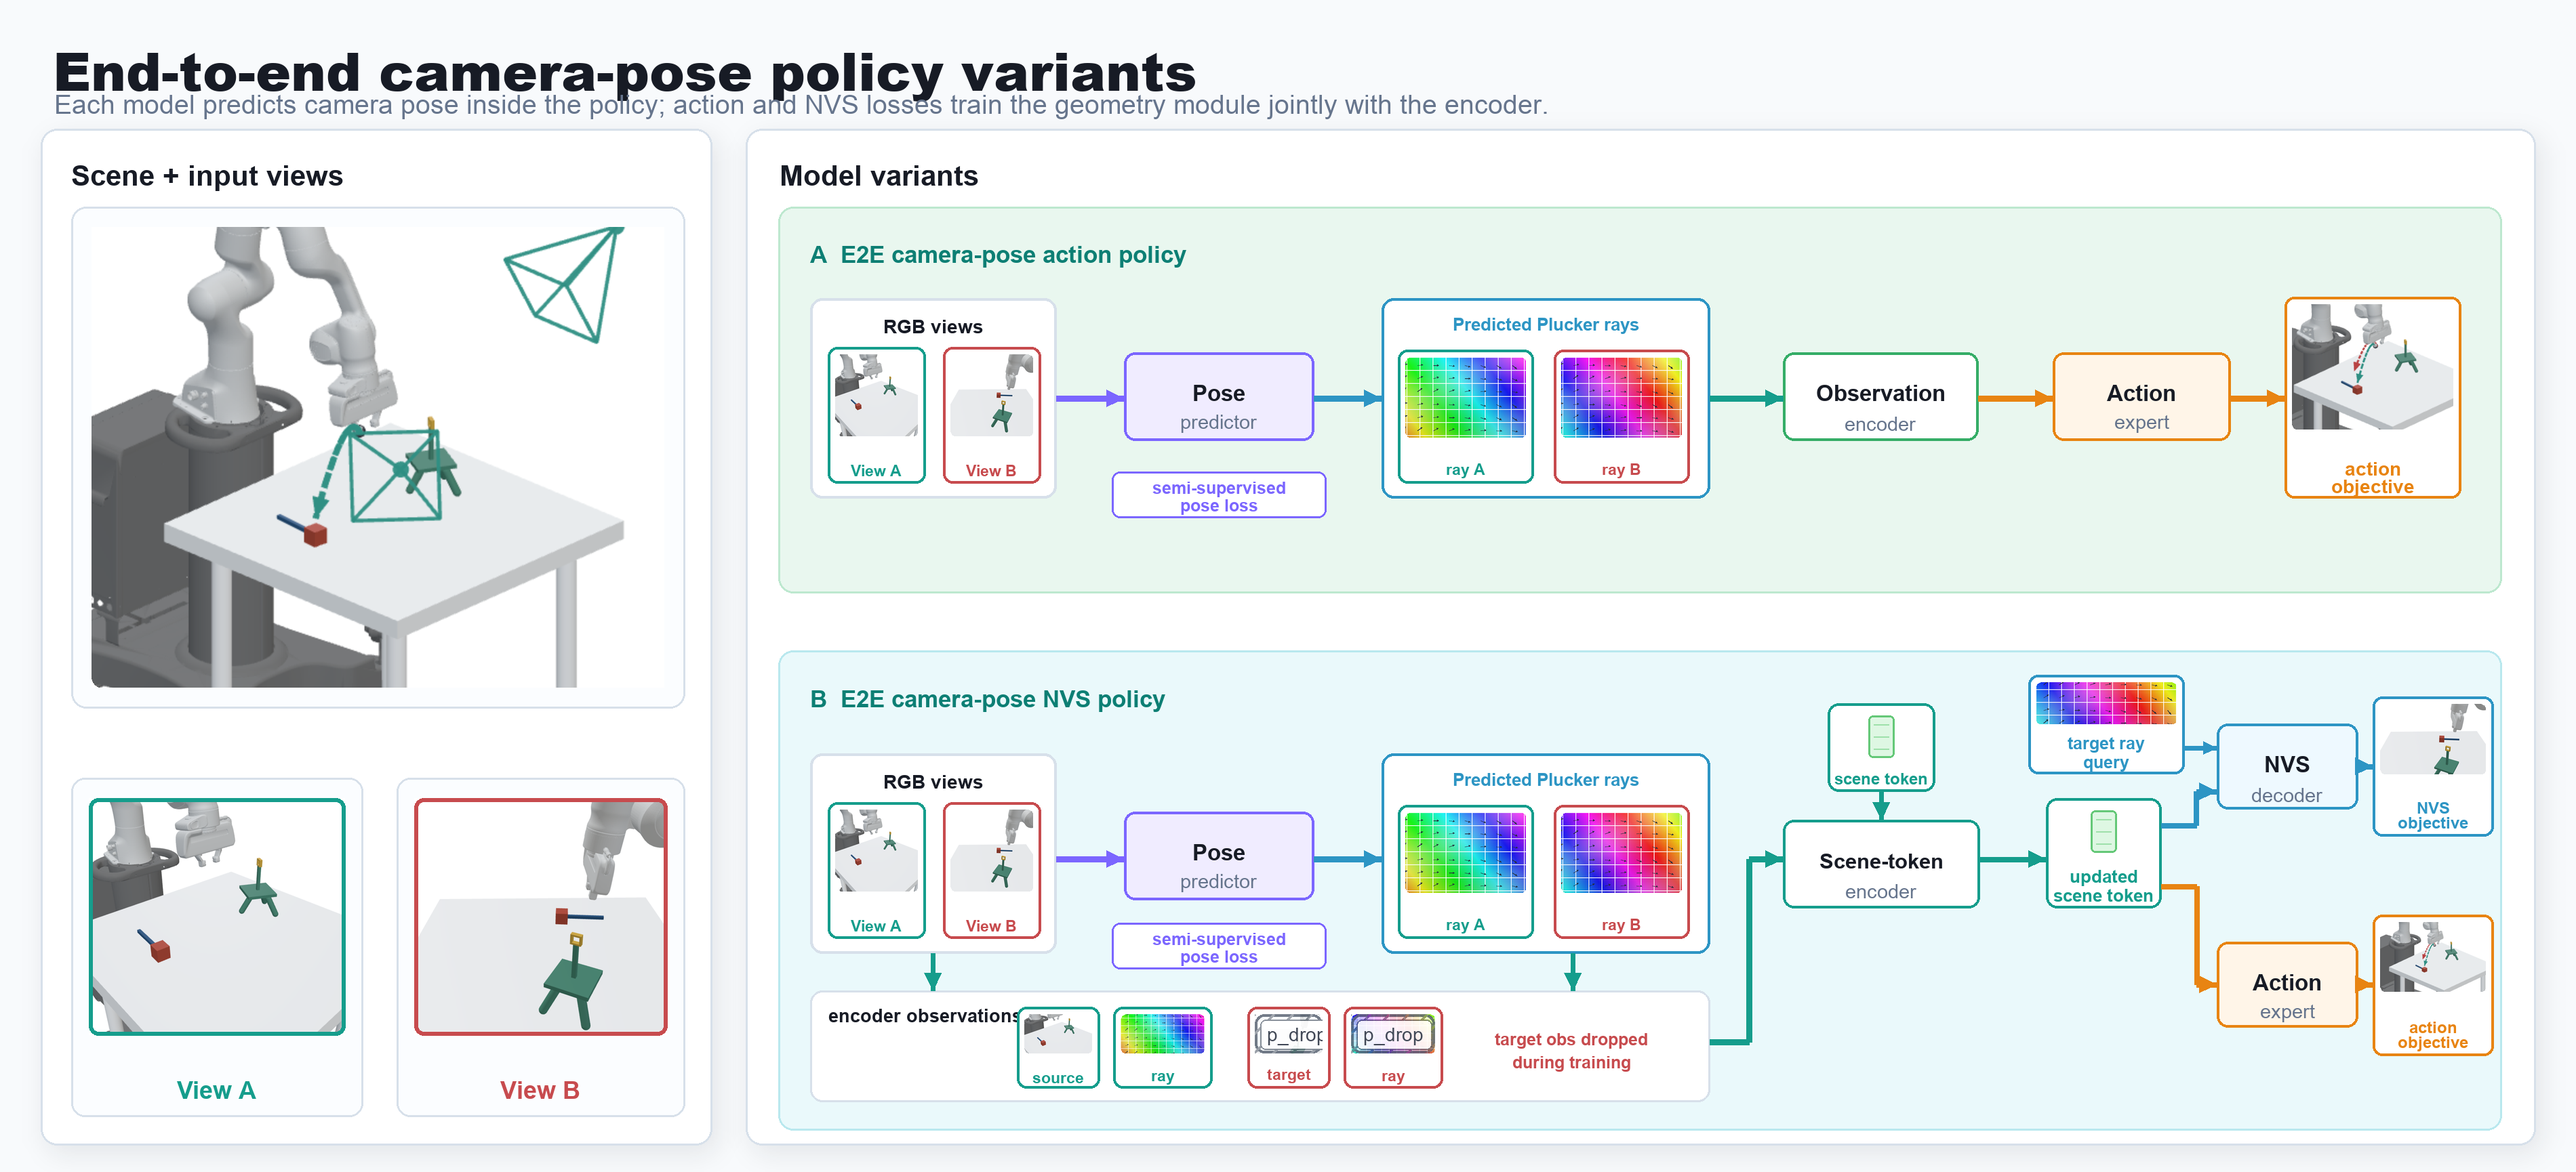
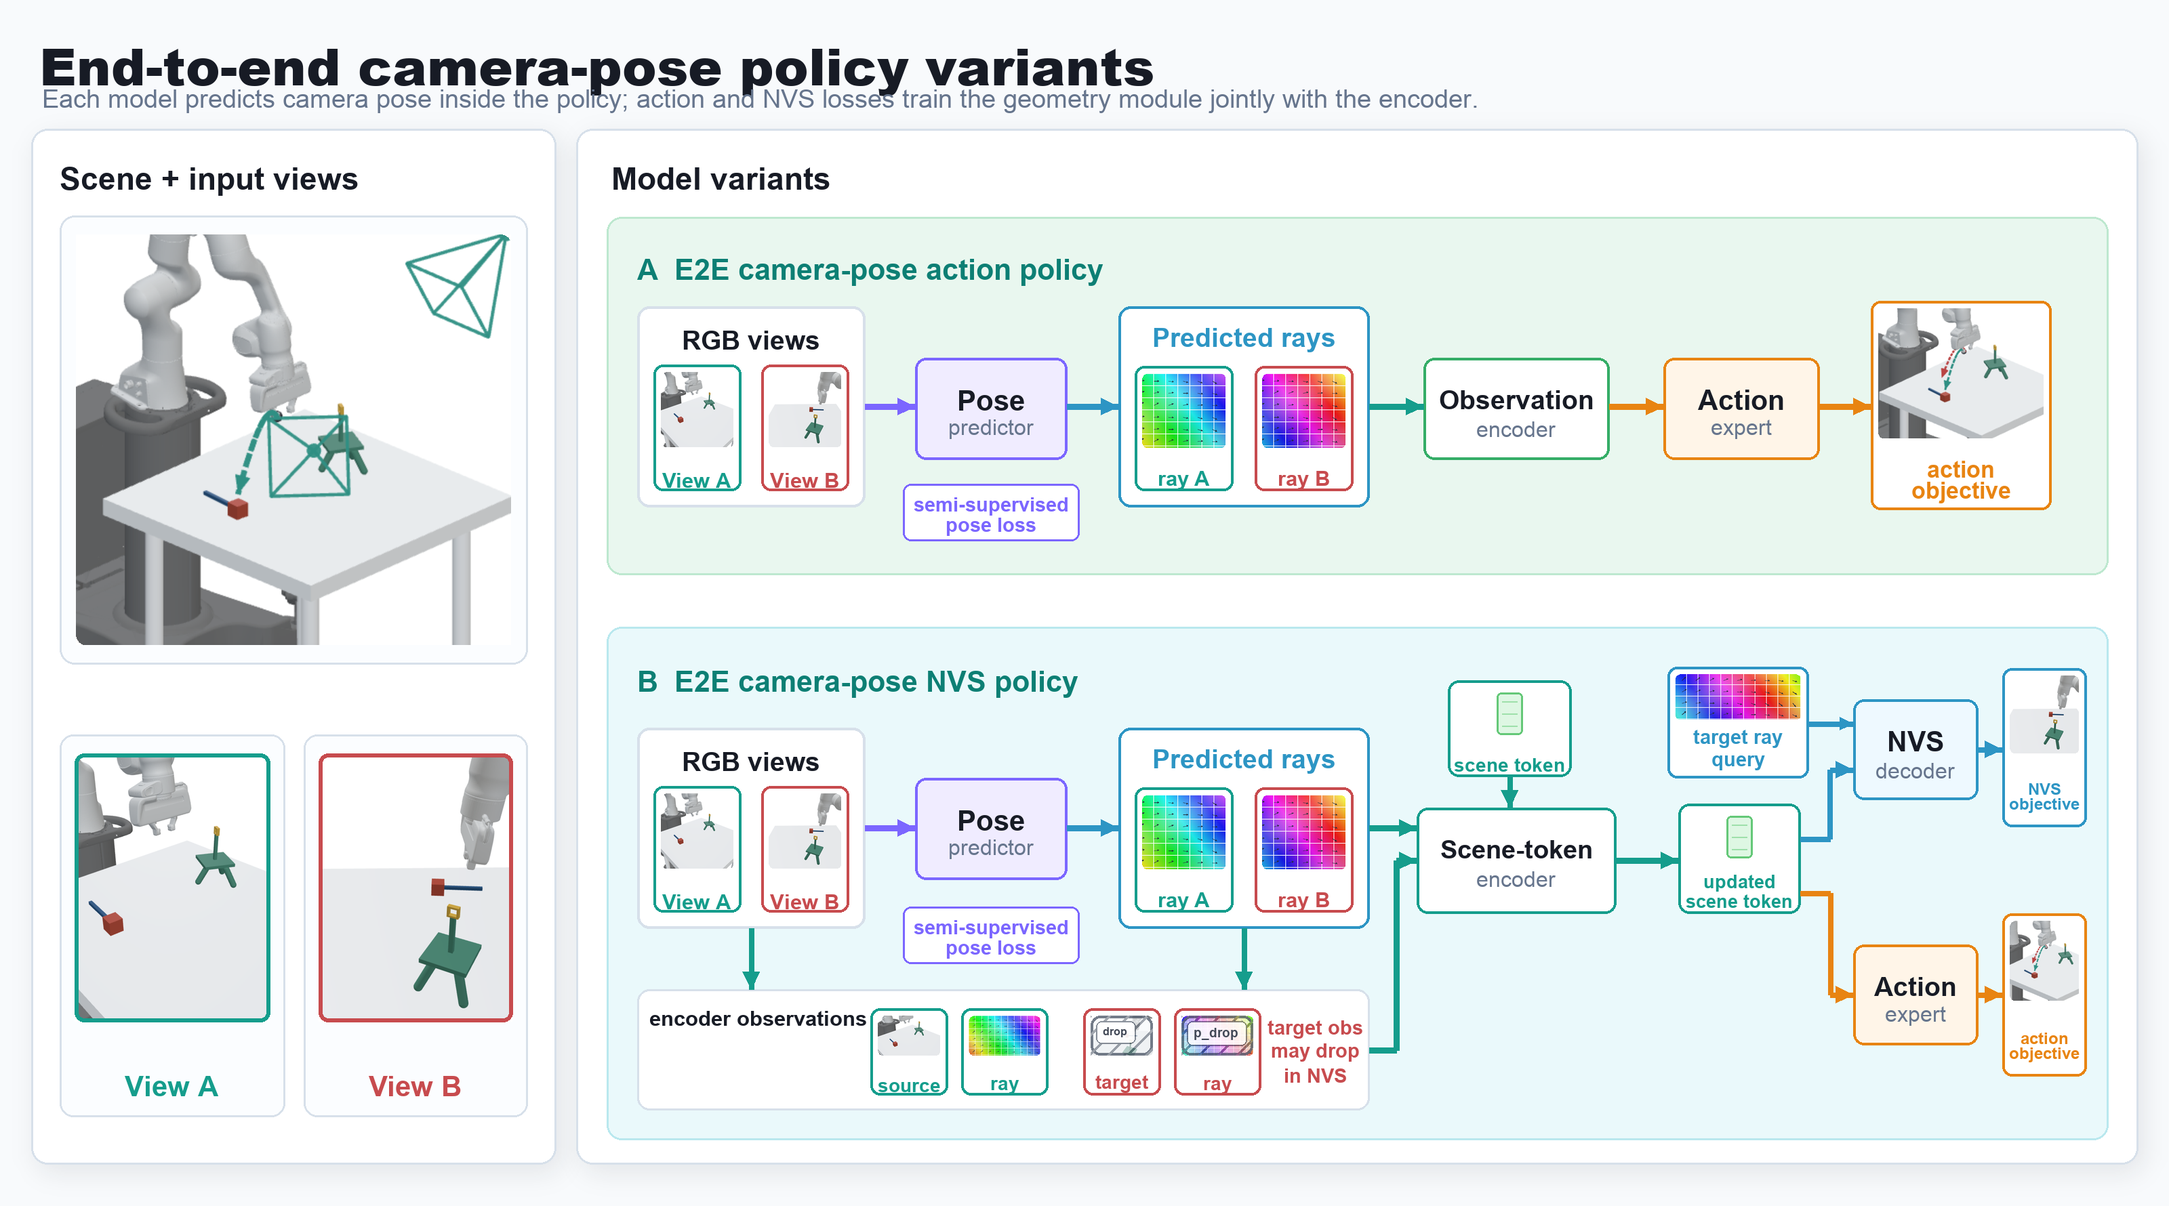
Enlarge pipeline figure text

Changed region(s): [[0.0, 0.0312, 0.9688, 0.9676], [0.2812, 0.4682, 0.3125, 0.4994]]

diff --git a/figures/scripts/render_pipeline_figure.py b/figures/scripts/render_pipeline_figure.py
@@ -12,7 +12,7 @@ ROOT = Path(__file__).resolve().parents[1]
 OUT = ROOT / "pipeline.png"
 ASSETS = ROOT / "pipeline_assets"
 
-W, H = 3800, 1730
+W, H = 3200, 1780
 FONT = Path("/System/Library/Fonts/Supplemental/Arial.ttf")
 BOLD = Path("/System/Library/Fonts/Supplemental/Arial Bold.ttf")
 BLACK = Path("/System/Library/Fonts/Supplemental/Arial Black.ttf")
@@ -22,14 +22,14 @@ def font(size: int, bold: bool = False, black: bool = False) -> ImageFont.FreeTy
     return ImageFont.truetype(str(BLACK if black else (BOLD if bold else FONT)), size)
 
 
-F_TITLE = font(78, black=True)
-F_SUB = font(39)
-F_PANEL = font(42, bold=True)
-F_BAND = font(35, bold=True)
-F_LABEL = font(33, bold=True)
-F_SMALL = font(29)
-F_TINY = font(28)
-F_CHIP = font(25, bold=True)
+F_TITLE = font(76, black=True)
+F_SUB = font(38)
+F_PANEL = font(46, bold=True)
+F_BAND = font(43, bold=True)
+F_LABEL = font(40, bold=True)
+F_SMALL = font(32)
+F_TINY = font(31)
+F_CHIP = font(29, bold=True)
 
 C_TEXT = "#171b25"
 C_MUTED = "#66758d"
@@ -162,10 +162,21 @@ def dropout_overlay(box, label="p_drop"):
     pd.rounded_rectangle((0, 0, w - 1, h - 1), radius=14, fill=(245, 248, 250, 158), outline=(90, 100, 115, 215), width=4)
     for k in range(-h, w + h, 28):
         pd.line((k, h, k + h, 0), fill=(85, 95, 110, 140), width=4)
-    tb = pd.textbbox((0, 0), label, font=F_TINY)
+    label_text = label
+    label_size = min(28, max(17, w // 4))
+    drop_font = font(label_size, bold=True)
+    tb = pd.textbbox((0, 0), label_text, font=drop_font)
+    while tb[2] - tb[0] + 30 > w - 10 and label_size > 16:
+        label_size -= 1
+        drop_font = font(label_size, bold=True)
+        tb = pd.textbbox((0, 0), label_text, font=drop_font)
+    if tb[2] - tb[0] + 30 > w - 10 and label_text == "p_drop":
+        label_text = "drop"
+        drop_font = font(max(16, label_size), bold=True)
+        tb = pd.textbbox((0, 0), label_text, font=drop_font)
     tw, th = tb[2] - tb[0], tb[3] - tb[1]
-    pd.rounded_rectangle((8, 8, tw + 30, th + 26), radius=8, fill=(255, 255, 255, 235), outline=(95, 105, 118, 185), width=2)
-    pd.text((18, 14), label, font=F_TINY, fill=(65, 72, 86, 255))
+    pd.rounded_rectangle((8, 8, min(w - 8, tw + 30), th + 26), radius=8, fill=(255, 255, 255, 235), outline=(95, 105, 118, 185), width=2)
+    pd.text((18, 14), label_text, font=drop_font, fill=(65, 72, 86, 255))
     base = img.crop((x0, y0, x1, y1)).convert("RGBA")
     comp = Image.alpha_composite(base, patch)
     img.paste(comp.convert("RGB"), (x0, y0))
@@ -180,7 +191,7 @@ def labeled_tile(src, box, label, stroke, label_color=None, label_size=26, image
     if overlay_drop:
         dropout_overlay((x0 + pad, y0 + pad, x1 - pad, im_bottom), "p_drop")
     if "\n" in label:
-        text_multiline_fit_center(((x0 + x1) / 2, y1 - 34), label, label_size, (x1 - x0) - 18, fill=label_color or stroke, bold=True)
+        text_multiline_fit_center(((x0 + x1) / 2, y1 - 48), label, label_size, (x1 - x0) - 18, fill=label_color or stroke, bold=True)
     else:
         text_fit_center(((x0 + x1) / 2, y1 - 22), label, label_size, (x1 - x0) - 18, fill=label_color or stroke, bold=True)
 
@@ -257,100 +268,104 @@ def main():
     ray_a = plucker((420, 235), 0.03)
     ray_b = plucker((420, 235), 0.42)
 
-    d.text((78, 48), "End-to-end camera-pose policy variants", font=F_TITLE, fill=C_TEXT)
-    d.text((80, 132), "Each model predicts camera pose inside the policy; action and NVS losses train the geometry module jointly with the encoder.", font=F_SUB, fill=C_MUTED)
+    d.text((58, 42), "End-to-end camera-pose policy variants", font=F_TITLE, fill=C_TEXT)
+    d.text((62, 124), "Each model predicts camera pose inside the policy; action and NVS losses train the geometry module jointly with the encoder.", font=F_SUB, fill=C_MUTED)
 
-    left = (60, 190, 1050, 1690)
-    right = (1100, 190, 3740, 1690)
+    left = (46, 190, 820, 1718)
+    right = (850, 190, 3154, 1718)
     shadowed_panel(left)
     shadowed_panel(right)
-    d.text((105, 235), "Scene + input views", font=F_PANEL, fill=C_TEXT)
-    d.text((1150, 235), "Model variants", font=F_PANEL, fill=C_TEXT)
+    d.text((88, 238), "Scene + input views", font=F_PANEL, fill=C_TEXT)
+    d.text((902, 238), "Model variants", font=F_PANEL, fill=C_TEXT)
 
-    rounded((105, 305, 1010, 1045), r=22, fill="#fbfdff", outline=C_LINE, width=3)
-    paste_cover(scene_crop, (135, 335, 980, 1015), radius=16)
+    rounded((88, 318, 778, 980), r=22, fill="#fbfdff", outline=C_LINE, width=3)
+    paste_cover(scene_crop, (112, 346, 754, 952), radius=16)
     for box, label, col, im in [
-        ((105, 1148, 535, 1648), "View A", C_TEAL, view_a),
-        ((585, 1148, 1010, 1648), "View B", C_RED, view_b),
+        ((88, 1084, 420, 1648), "View A", C_TEAL, view_a),
+        ((448, 1084, 778, 1648), "View B", C_RED, view_b),
     ]:
         rounded(box, r=20, fill="#fbfdff", outline=C_LINE, width=3)
         x0, y0, x1, y1 = box
-        paste_cover(im, (x0 + 26, y0 + 30, x1 - 26, y0 + 380), radius=14, border=col, bw=6)
-        text_fit_center(((x0 + x1) / 2, y1 - 46), label, 36, (x1 - x0) - 38, fill=col, bold=True)
+        paste_cover(im, (x0 + 22, y0 + 28, x1 - 22, y0 + 424), radius=14, border=col, bw=6)
+        text_fit_center(((x0 + x1) / 2, y1 - 54), label, 42, (x1 - x0) - 36, fill=col, bold=True)
 
     def rgb_views_card(box, title="RGB views"):
         x0, y0, x1, y1 = map(int, box)
         rounded((x0, y0, x1, y1), r=18, fill="white", outline=C_LINE, width=4)
-        text_fit_center(((x0 + x1) / 2, y0 + 36), title, 28, x1 - x0 - 28, fill=C_TEXT, bold=True)
-        labeled_tile(view_a, (x0 + 26, y0 + 72, x0 + 170, y1 - 22), "View A", C_TEAL, label_size=23, image_frac=0.66)
-        labeled_tile(view_b, (x0 + 196, y0 + 72, x0 + 340, y1 - 22), "View B", C_RED, label_size=23, image_frac=0.66)
+        text_fit_center(((x0 + x1) / 2, y0 + 42), title, 39, x1 - x0 - 28, fill=C_TEXT, bold=True)
+        tile_w = int((x1 - x0 - 78) / 2)
+        labeled_tile(view_a, (x0 + 24, y0 + 86, x0 + 24 + tile_w, y1 - 24), "View A", C_TEAL, label_size=31, image_frac=0.66)
+        labeled_tile(view_b, (x0 + 54 + tile_w, y0 + 86, x0 + 54 + tile_w * 2, y1 - 24), "View B", C_RED, label_size=31, image_frac=0.66)
 
     def ray_maps_card(box):
         x0, y0, x1, y1 = map(int, box)
         rounded((x0, y0, x1, y1), r=18, fill="white", outline=C_BLUE, width=4)
-        text_fit_center(((x0 + x1) / 2, y0 + 36), "Predicted Plucker rays", 26, x1 - x0 - 28, fill=C_BLUE, bold=True)
-        labeled_tile(ray_a, (x0 + 24, y0 + 76, x0 + 224, y1 - 22), "ray A", C_TEAL, label_size=23, image_frac=0.66)
-        labeled_tile(ray_b, (x0 + 254, y0 + 76, x0 + 454, y1 - 22), "ray B", C_RED, label_size=23, image_frac=0.66)
+        text_fit_center(((x0 + x1) / 2, y0 + 42), "Predicted rays", 39, x1 - x0 - 28, fill=C_BLUE, bold=True)
+        tile_w = int((x1 - x0 - 80) / 2)
+        labeled_tile(ray_a, (x0 + 24, y0 + 88, x0 + 24 + tile_w, y1 - 24), "ray A", C_TEAL, label_size=31, image_frac=0.66)
+        labeled_tile(ray_b, (x0 + 56 + tile_w, y0 + 88, x0 + 56 + tile_w * 2, y1 - 24), "ray B", C_RED, label_size=31, image_frac=0.66)
 
     def pose_block(box, aux_y=None):
-        node(box, "Pose", "predictor", stroke=C_PURPLE, fill=C_PURPLE_FILL, title_color=C_TEXT, title_size=33)
+        node(box, "Pose", "predictor", stroke=C_PURPLE, fill=C_PURPLE_FILL, title_color=C_TEXT, title_size=42)
         if aux_y is not None:
             x0, _, x1, _ = box
-            rounded((x0 - 18, aux_y, x1 + 18, aux_y + 68), r=12, fill="white", outline=C_PURPLE, width=3)
-            text_multiline_fit_center(((x0 + x1) / 2, aux_y + 35), "semi-supervised\npose loss", 25, (x1 - x0) + 10, fill=C_PURPLE, bold=True)
+            rounded((x0 - 18, aux_y, x1 + 18, aux_y + 84), r=12, fill="white", outline=C_PURPLE, width=3)
+            text_multiline_fit_center(((x0 + x1) / 2, aux_y + 43), "semi-supervised\npose loss", 31, (x1 - x0) + 10, fill=C_PURPLE, bold=True)
 
-    band_a = (1148, 305, 3690, 875)
+    band_a = (895, 320, 3110, 848)
     rounded(band_a, r=22, fill=C_GREEN_FILL, outline=C_GREEN_STROKE, width=3)
-    d.text((1195, 356), "A  E2E camera-pose action policy", font=F_BAND, fill=C_TEAL_DARK)
-    rgb_views_card((1195, 440, 1558, 735))
-    pose_block((1658, 520, 1938, 650), aux_y=696)
-    ray_maps_card((2038, 440, 2522, 735))
-    node((2630, 520, 2918, 650), "Observation", "encoder", stroke="#35ad67", fill="white", title_size=33)
-    node((3028, 520, 3290, 650), "Action", "expert", stroke=C_ORANGE, fill=C_ORANGE_FILL, title_size=33)
-    labeled_tile(action_crop, (3370, 438, 3630, 735), "action\nobjective", C_ORANGE, label_size=28, image_frac=0.66)
-    arrow([(1558, 588), (1658, 588)], color=C_PURPLE, width=9)
-    arrow([(1938, 588), (2038, 588)], color=C_BLUE, width=9)
-    arrow([(2522, 588), (2630, 588)], color=C_TEAL, width=9)
-    arrow([(2918, 588), (3028, 588)], color=C_ORANGE, width=9)
-    arrow([(3290, 588), (3370, 588)], color=C_ORANGE, width=9)
+    d.text((940, 374), "A  E2E camera-pose action policy", font=F_BAND, fill=C_TEAL_DARK)
+    rgb_views_card((940, 452, 1276, 748))
+    pose_block((1350, 528, 1574, 678), aux_y=714)
+    ray_maps_card((1650, 452, 2020, 748))
+    node((2100, 528, 2374, 678), "Observation", "encoder", stroke="#35ad67", fill="white", title_size=39)
+    node((2454, 528, 2684, 678), "Action", "expert", stroke=C_ORANGE, fill=C_ORANGE_FILL, title_size=41)
+    labeled_tile(action_crop, (2760, 444, 3026, 752), "action\nobjective", C_ORANGE, label_size=34, image_frac=0.66)
+    arrow([(1276, 600), (1350, 600)], color=C_PURPLE, width=9)
+    arrow([(1574, 600), (1650, 600)], color=C_BLUE, width=9)
+    arrow([(2020, 600), (2100, 600)], color=C_TEAL, width=9)
+    arrow([(2374, 600), (2454, 600)], color=C_ORANGE, width=9)
+    arrow([(2684, 600), (2760, 600)], color=C_ORANGE, width=9)
 
-    band_b = (1148, 960, 3690, 1668)
+    band_b = (895, 925, 3110, 1682)
     rounded(band_b, r=22, fill=C_CYAN_FILL, outline=C_CYAN_STROKE, width=3)
-    d.text((1195, 1012), "B  E2E camera-pose NVS policy", font=F_BAND, fill=C_TEAL_DARK)
-    rgb_views_card((1195, 1112, 1558, 1407))
-    pose_block((1658, 1198, 1938, 1328), aux_y=1362)
-    ray_maps_card((2038, 1112, 2522, 1407))
-    arrow([(1558, 1268), (1658, 1268)], color=C_PURPLE, width=9)
-    arrow([(1938, 1268), (2038, 1268)], color=C_BLUE, width=9)
+    d.text((940, 982), "B  E2E camera-pose NVS policy", font=F_BAND, fill=C_TEAL_DARK)
+    rgb_views_card((940, 1074, 1276, 1370))
+    pose_block((1350, 1148, 1574, 1298), aux_y=1338)
+    ray_maps_card((1650, 1074, 2020, 1370))
+    arrow([(1276, 1222), (1350, 1222)], color=C_PURPLE, width=9)
+    arrow([(1574, 1222), (1650, 1222)], color=C_BLUE, width=9)
 
-    sampler = (1195, 1462, 2522, 1626)
+    sampler = (940, 1460, 2020, 1638)
     rounded(sampler, r=18, fill="white", outline=C_LINE, width=3)
-    text_fit_center((1365, 1494), "encoder observations", 27, 320, fill=C_TEXT, bold=True)
-    labeled_tile(view_a, (1500, 1486, 1622, 1606), "source", C_TEAL, label_size=23, image_frac=0.58)
-    labeled_tile(ray_a, (1642, 1486, 1788, 1606), "ray", C_TEAL, label_size=23, image_frac=0.58)
-    labeled_tile(view_b, (1840, 1486, 1962, 1606), "target", C_RED, label_size=23, image_frac=0.58, overlay_drop=True)
-    labeled_tile(ray_b, (1982, 1486, 2128, 1606), "ray", C_RED, label_size=23, image_frac=0.58, overlay_drop=True)
-    text_fit_center((2318, 1532), "target obs dropped", 25, 330, fill=C_RED, bold=True)
-    text_fit_center((2318, 1566), "during training", 25, 330, fill=C_RED, bold=True)
-    arrow([(1376, 1407), (1376, 1462)], color=C_TEAL, width=7)
-    arrow([(2320, 1407), (2320, 1462)], color=C_TEAL, width=7)
+    text_fit_center((1118, 1496), "encoder observations", 34, 330, fill=C_TEXT, bold=True)
+    labeled_tile(view_a, (1284, 1488, 1398, 1616), "source", C_TEAL, label_size=28, image_frac=0.55)
+    labeled_tile(ray_a, (1418, 1488, 1546, 1616), "ray", C_TEAL, label_size=28, image_frac=0.55)
+    labeled_tile(view_b, (1598, 1488, 1712, 1616), "target", C_RED, label_size=28, image_frac=0.55, overlay_drop=True)
+    labeled_tile(ray_b, (1732, 1488, 1860, 1616), "ray", C_RED, label_size=28, image_frac=0.55, overlay_drop=True)
+    text_fit_center((1940, 1514), "target obs", 29, 145, fill=C_RED, bold=True)
+    text_fit_center((1940, 1548), "may drop", 29, 145, fill=C_RED, bold=True)
+    text_fit_center((1940, 1582), "in NVS", 29, 145, fill=C_RED, bold=True)
+    arrow([(1108, 1370), (1108, 1460)], color=C_TEAL, width=8)
+    arrow([(1835, 1370), (1835, 1460)], color=C_TEAL, width=8)
 
-    scene_token_glyph((2696, 1038, 2854, 1168), "scene token", label_size=24)
-    node((2630, 1210, 2920, 1340), "Scene-token", "encoder", stroke=C_TEAL, fill="white", title_size=31)
-    scene_token_glyph((3018, 1178, 3188, 1340), "updated\nscene token", label_size=28)
-    labeled_tile(ray_b, (2992, 996, 3222, 1142), "target ray\nquery", C_BLUE, label_color=C_BLUE, label_size=25, image_frac=0.50)
-    node((3270, 1068, 3478, 1194), "NVS", "decoder", stroke=C_BLUE, fill="#eef9ff", title_size=33)
-    labeled_tile(view_b, (3500, 1028, 3678, 1234), "NVS\nobjective", C_BLUE, label_size=24, image_frac=0.56)
-    node((3270, 1390, 3478, 1516), "Action", "expert", stroke=C_ORANGE, fill=C_ORANGE_FILL, title_size=33)
-    labeled_tile(action_crop, (3500, 1350, 3678, 1558), "action\nobjective", C_ORANGE, label_size=24, image_frac=0.55)
-    arrow([(2522, 1538), (2580, 1538), (2580, 1268), (2630, 1268)], color=C_TEAL, width=9)
-    arrow([(2775, 1168), (2775, 1210)], color=C_TEAL, width=7)
-    arrow([(2920, 1268), (3018, 1268)], color=C_TEAL, width=8)
-    arrow([(3188, 1218), (3240, 1218), (3240, 1168), (3270, 1168)], color=C_BLUE, width=8)
-    arrow([(3222, 1104), (3270, 1104)], color=C_BLUE, width=7, head=20)
-    arrow([(3478, 1131), (3500, 1131)], color=C_BLUE, width=8)
-    arrow([(3188, 1308), (3240, 1308), (3240, 1453), (3270, 1453)], color=C_ORANGE, width=8)
-    arrow([(3478, 1453), (3500, 1453)], color=C_ORANGE, width=8)
+    scene_token_glyph((2136, 1004, 2318, 1146), "scene token", label_size=30)
+    node((2090, 1192, 2384, 1348), "Scene-token", "encoder", stroke=C_TEAL, fill="white", title_size=38)
+    scene_token_glyph((2476, 1186, 2656, 1348), "updated\nscene token", label_size=32)
+    labeled_tile(ray_b, (2460, 984, 2668, 1148), "target ray\nquery", C_BLUE, label_color=C_BLUE, label_size=29, image_frac=0.48)
+    node((2734, 1032, 2918, 1180), "NVS", "decoder", stroke=C_BLUE, fill="#eef9ff", title_size=41)
+    labeled_tile(view_b, (2954, 986, 3078, 1220), "NVS\nobjective", C_BLUE, label_size=30, image_frac=0.54)
+    node((2734, 1394, 2918, 1542), "Action", "expert", stroke=C_ORANGE, fill=C_ORANGE_FILL, title_size=39)
+    labeled_tile(action_crop, (2954, 1348, 3078, 1588), "action\nobjective", C_ORANGE, label_size=29, image_frac=0.54)
+    arrow([(2020, 1222), (2090, 1222)], color=C_TEAL, width=9)
+    arrow([(2020, 1550), (2060, 1550), (2060, 1270), (2090, 1270)], color=C_TEAL, width=9)
+    arrow([(2227, 1146), (2227, 1192)], color=C_TEAL, width=8)
+    arrow([(2384, 1270), (2476, 1270)], color=C_TEAL, width=9)
+    arrow([(2656, 1238), (2700, 1238), (2700, 1136), (2734, 1136)], color=C_BLUE, width=8)
+    arrow([(2668, 1068), (2734, 1068)], color=C_BLUE, width=8, head=20)
+    arrow([(2918, 1106), (2954, 1106)], color=C_BLUE, width=8)
+    arrow([(2656, 1318), (2700, 1318), (2700, 1468), (2734, 1468)], color=C_ORANGE, width=8)
+    arrow([(2918, 1468), (2954, 1468)], color=C_ORANGE, width=8)
 
     img.save(OUT, quality=98)
 
